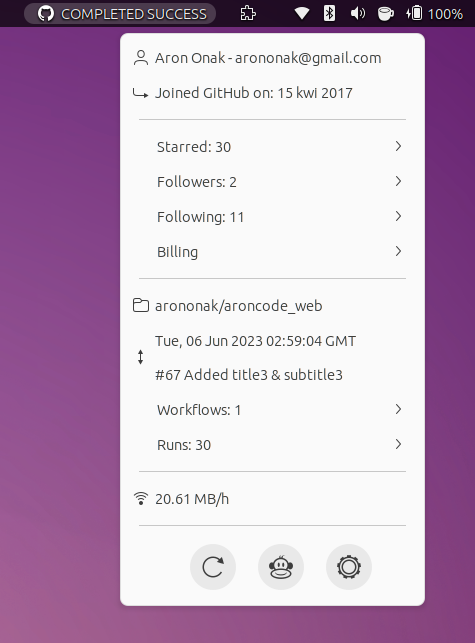
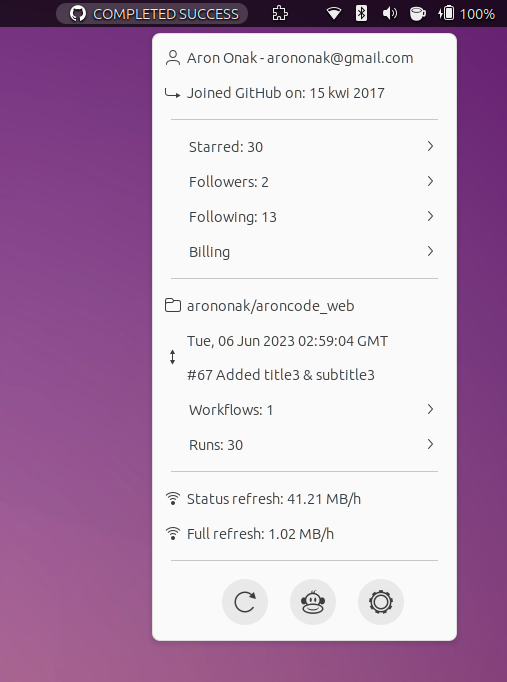
Separated data consumption to two groups

diff --git a/github-actions@arononak.github.io/extension.js b/github-actions@arononak.github.io/extension.js
@@ -41,7 +41,7 @@ function showFinishNotification(ownerAndRepo, success) {
     source.showNotification(notification);
 }
 
-/// ~5 minutes
+/// 1-60 minutes
 async function coldRefresh(settings, indicator) {
     try {
         const owner = settings.get_string('owner');
@@ -50,15 +50,55 @@ async function coldRefresh(settings, indicator) {
 
         const user = await dataRepository.fetchUser();
         if (user == null) return;
-
         const login = user['login'];
-        const starredList = await dataRepository.fetchUserStarred(login);
-        indicator.setUserStarred(starredList);
 
+        const starredList = await dataRepository.fetchUserStarred(login);
         const followers = await dataRepository.fetchUserFollowers();
-        indicator.setUserFollowers(followers);
         const following = await dataRepository.fetchUserFollowing();
+        const workflows = await dataRepository.fetchWorkflows(owner, repo);
+        const minutes = await dataRepository.fetchUserBillingActionsMinutes(login);
+        const packages = await dataRepository.fetchUserBillingPackages(login);
+        const sharedStorage = await dataRepository.fetchUserBillingSharedStorage(login);
+
+        const sizeInBytes = user['_size_'] + starredList['_size_'] + followers['_size_'] + following['_size_'] + workflows['_size_'] + minutes['_size_'] + packages['_size_'] + sharedStorage['_size_'];
+        utils.prefsUpdateColdPackageSize(settings, sizeInBytes);
+
+        let userEmail;
+        let userName;
+        let createdAt;
+        let userUrl;
+        if (user != null) {
+            userEmail = user['email'];
+            userName = user['name'];
+            createdAt = new Date(user['created_at']);
+            userUrl = user['html_url'];
+        }
+
+        let parsedMinutes;
+        if (minutes != null) {
+            parsedMinutes = 'Usage minutes: ' + minutes['total_minutes_used'] + ' of ' + minutes['included_minutes'] + ', ' + minutes['total_paid_minutes_used'] + ' paid';
+        }
+
+        let parsedPackages;
+        if (packages != null) {
+            parsedPackages = 'Data transfer out: ' + packages['total_gigabytes_bandwidth_used'] + ' GB of ' + packages['included_gigabytes_bandwidth'] + ' GB, ' + packages['total_paid_gigabytes_bandwidth_used'] + ' GB paid';
+        }
+
+        let parsedSharedStorage;
+        if (sharedStorage != null) {
+            parsedSharedStorage = 'Storage for month: ' + sharedStorage['estimated_storage_for_month'] + ' GB, ' + sharedStorage['estimated_paid_storage_for_month'] + ' GB paid';
+        }
+
+        indicator.setUserStarred(starredList);
+        indicator.setUserFollowers(followers);
         indicator.setUserFollowing(following);
+        indicator.setWorkflows(workflows['workflows']);
+        indicator.userUrl = userUrl;
+        indicator.userItem.label.text = (userName == null || userEmail == null) ? 'Not logged' : userName + ' - ' + userEmail;
+        indicator.joinedItem.label.text = 'Joined GitHub on: ' + createdAt.toLocaleFormat('%d %b %Y');
+        indicator.minutesItem.label.text = parsedMinutes == null ? 'Not logged' : parsedMinutes;
+        indicator.packagesItem.label.text = parsedPackages == null ? 'Not logged' : parsedPackages;
+        indicator.sharedStorageItem.label.text = parsedSharedStorage == null ? 'Not logged' : parsedSharedStorage;
     } catch (error) {
         logError(error);
     }
@@ -69,98 +109,46 @@ async function hotRefresh(settings, indicator) {
     try {
         const owner = settings.get_string('owner');
         const repo = settings.get_string('repo');
+        if (utils.isEmpty(owner) || utils.isEmpty(repo)) return;
 
-        if (!utils.isEmpty(owner) && !utils.isEmpty(repo)) {
-            const user = await dataRepository.fetchUser();
-            let userLogin;
-            let userEmail;
-            let userName;
-            let createdAt;
-            let userUrl;
-            if (user != null) {
-                userLogin = user['login']
-                userEmail = user['email'];
-                userName = user['name'];
-                createdAt = new Date(user['created_at']);
-                userUrl = user['html_url'];
-            }
-
-            const minutes = await dataRepository.fetchUserBillingActionsMinutes(userLogin);
-            let parsedMinutes;
-            if (minutes != null) {
-                parsedMinutes = 'Usage minutes: ' + minutes['total_minutes_used'] + ' of ' + minutes['included_minutes'] + ', ' + minutes['total_paid_minutes_used'] + ' paid';
-            }
-
-            const packages = await dataRepository.fetchUserBillingPackages(userLogin);
-            let parsedPackages;
-            if (packages != null) {
-                parsedPackages = 'Data transfer out: ' + packages['total_gigabytes_bandwidth_used'] + ' GB of ' + packages['included_gigabytes_bandwidth'] + ' GB, ' + packages['total_paid_gigabytes_bandwidth_used'] + ' GB paid';
-            }
-
-            const sharedStorage = await dataRepository.fetchUserBillingSharedStorage(userLogin);
-            let parsedSharedStorage;
-            if (sharedStorage != null) {
-                parsedSharedStorage = 'Storage for month: ' + sharedStorage['estimated_storage_for_month'] + ' GB, ' + sharedStorage['estimated_paid_storage_for_month'] + ' GB paid';
-            }
-
-            let latestRun;
-            let size;
-            const runs = await dataRepository.fetchWorkflowRuns(owner, repo);
-            if (runs == null) {
-                indicator.setNotLoggedState();
-                return;
-            }
-
-            latestRun = runs['workflow_runs'][0];
-            size = runs['_size_'];
-
-            const workflows = await dataRepository.fetchWorkflows(owner, repo);
-
-            indicator.setRuns(runs['workflow_runs']);
-            indicator.setWorkflows(workflows['workflows']);
-
-            const status = latestRun["status"].toString().toUpperCase();
-            const conclusion = latestRun["conclusion"] == null ? '' : latestRun["conclusion"].toString().toUpperCase();
-            const displayTitle = latestRun["display_title"].toString();
-            const runNumber = latestRun["run_number"].toString();
-            const updatedAt = latestRun["updated_at"].toString();
-            const ownerAndRepo = latestRun["repository"]["full_name"].toString();
-
-            const workflowUrl = latestRun["html_url"].toString();
-            const repositoryUrl = latestRun["repository"]["html_url"].toString();
-
-            const date = new Date(updatedAt);
-
-            const sizeInBytes = runs['_size_'];
-            utils.prefsUpdatePackageSize(settings, sizeInBytes);
-
-            const previousState = indicator.label.text;
-            const currentState = status + ' ' + conclusion;
-
-            /// Notification
-            if (!utils.isEmpty(previousState) && previousState !== loadingText && previousState !== currentState) {
-                if (currentState === 'COMPLETED SUCCESS') {
-                    showFinishNotification(ownerAndRepo, true);
-                } else if (currentState === 'COMPLETED FAILURE') {
-                    showFinishNotification(ownerAndRepo, false);
-                }
-            }
-
-            indicator.label.text = currentState;
-
-            indicator.workflowUrl = workflowUrl;
-            indicator.repositoryUrl = repositoryUrl;
-            indicator.userUrl = userUrl;
-
-            indicator.userItem.label.text = (userName == null || userEmail == null) ? 'Not logged' : userName + ' - ' + userEmail;
-            indicator.joinedItem.label.text = 'Joined GitHub on: ' + createdAt.toLocaleFormat('%d %b %Y');
-            indicator.minutesItem.label.text = parsedMinutes == null ? 'Not logged' : parsedMinutes;
-            indicator.packagesItem.label.text = parsedPackages == null ? 'Not logged' : parsedPackages;
-            indicator.sharedStorageItem.label.text = parsedSharedStorage == null ? 'Not logged' : parsedSharedStorage;
-            indicator.ownerAndRepoItem.label.text = ownerAndRepo;
-            indicator.infoItem.label.text = date.toUTCString() + "\n\n#" + runNumber + " " + displayTitle;
-            indicator.packageSizeItem.label.text = utils.prefsDataConsumptionPerHour(settings);
+        const runs = await dataRepository.fetchWorkflowRuns(owner, repo);
+        if (runs == null) {
+            indicator.setNotLoggedState();
+            return;
         }
+
+        utils.prefsUpdatePackageSize(settings, runs['_size_']);
+
+        const latestRun = runs['workflow_runs'][0];
+        const status = latestRun["status"].toString().toUpperCase();
+        const conclusion = latestRun["conclusion"] == null ? '' : latestRun["conclusion"].toString().toUpperCase();
+        const displayTitle = latestRun["display_title"].toString();
+        const runNumber = latestRun["run_number"].toString();
+        const updatedAt = latestRun["updated_at"].toString();
+        const ownerAndRepo = latestRun["repository"]["full_name"].toString();
+        const workflowUrl = latestRun["html_url"].toString();
+        const repositoryUrl = latestRun["repository"]["html_url"].toString();
+        const date = new Date(updatedAt);
+        const previousState = indicator.label.text;
+        const currentState = status + ' ' + conclusion;
+
+        /// Notification
+        if (!utils.isEmpty(previousState) && previousState !== loadingText && previousState !== currentState) {
+            if (currentState === 'COMPLETED SUCCESS') {
+                showFinishNotification(ownerAndRepo, true);
+            } else if (currentState === 'COMPLETED FAILURE') {
+                showFinishNotification(ownerAndRepo, false);
+            }
+        }
+
+        indicator.label.text = currentState;
+        indicator.workflowUrl = workflowUrl;
+        indicator.repositoryUrl = repositoryUrl;
+        indicator.ownerAndRepoItem.label.text = ownerAndRepo;
+        indicator.infoItem.label.text = date.toUTCString() + "\n\n#" + runNumber + " " + displayTitle;
+        indicator.packageSizeItem.label.text = 'Status refresh: ' + utils.prefsDataConsumptionPerHour(settings);
+        indicator.fullPackageSizeItem.label.text = 'Full refresh: ' + utils.prefsFullDataConsumptionPerHour(settings);
+        indicator.setRuns(runs['workflow_runs']);
     } catch (error) {
         logError(error);
     }
@@ -275,8 +263,9 @@ const Indicator = GObject.registerClass(
 
             /// Package Size
             this.packageSizeItem = new PopupMenu.PopupImageMenuItem(loadingText, 'network-wireless-symbolic');
-            this.packageSizeItem.connect('activate', () => this.refreshCallback());
             this.menu.addMenuItem(this.packageSizeItem);
+            this.fullPackageSizeItem = new PopupMenu.PopupImageMenuItem(loadingText, 'network-wireless-symbolic');
+            this.menu.addMenuItem(this.fullPackageSizeItem);
             this.menu.addMenuItem(new PopupMenu.PopupSeparatorMenuItem());
 
             this.bottomButtonBox = new St.BoxLayout({
@@ -388,6 +377,7 @@ const Indicator = GObject.registerClass(
             this.ownerAndRepoItem.label.text = '...';
             this.infoItem.label.text = '...';
             this.packageSizeItem.label.text = '...';
+            this.fullPackageSizeItem.label.text = '...';
         }
 
         _init() {

diff --git a/github-actions@arononak.github.io/prefs.js b/github-actions@arononak.github.io/prefs.js
@@ -10,7 +10,7 @@ const version = Me.imports.version; // version.js
 function init() { }
 
 function fillPreferencesWindow(window) {
-    window.set_default_size(500, 650);
+    window.set_default_size(500, 700);
     const settings = ExtensionUtils.getSettings('org.gnome.shell.extensions.github-actions');
 
     const ownerEntry = new Gtk.Entry({ buffer: new Gtk.EntryBuffer({ text: settings.get_string('owner') }), hexpand: true, halign: Gtk.Align.CENTER, valign: Gtk.Align.CENTER });
@@ -54,6 +54,9 @@ function fillPreferencesWindow(window) {
     refreshStatusRow.activatable_widget = refreshStatusSpinButton;
     settings.bind('refresh-time', refreshStatusSpinButton, 'value', Gio.SettingsBindFlags.DEFAULT);
 
+    const dataRow = new Adw.ActionRow({ title: 'Data package size ' });
+    dataRow.add_suffix(new Gtk.Label({ label: utils.prefsPackageSize(settings), halign: Gtk.Align.START, valign: Gtk.Align.CENTER }));
+
     const fullRefreshSpinButton = new Gtk.SpinButton({ climb_rate: 1, digits: 0 });
     fullRefreshSpinButton.wrap = true;
     fullRefreshSpinButton.width_chars = 2;
@@ -73,8 +76,8 @@ function fillPreferencesWindow(window) {
     fullRefreshRow.activatable_widget = fullRefreshSpinButton;
     settings.bind('full-refresh-time', fullRefreshSpinButton, 'value', Gio.SettingsBindFlags.DEFAULT);
 
-    const dataRow = new Adw.ActionRow({ title: 'Data package size ' });
-    dataRow.add_suffix(new Gtk.Label({ label: utils.prefsPackageSize(settings), halign: Gtk.Align.START, valign: Gtk.Align.CENTER }));
+    const fullDataRow = new Adw.ActionRow({ title: 'Full data package size ' });
+    fullDataRow.add_suffix(new Gtk.Label({ label: utils.prefsColdPackageSize(settings), halign: Gtk.Align.START, valign: Gtk.Align.CENTER }));
 
     const versionRow = new Adw.ActionRow();
     versionRow.add_prefix(new Gtk.Label({ label: 'Version: ', halign: Gtk.Align.START, valign: Gtk.Align.CENTER }));
@@ -94,6 +97,7 @@ function fillPreferencesWindow(window) {
     const refreshStatusGroup = new Adw.PreferencesGroup({ title: 'Refresh status' });
     refreshStatusGroup.add(dataRow);
     refreshStatusGroup.add(refreshStatusRow);
+    refreshStatusGroup.add(fullDataRow);
     refreshStatusGroup.add(fullRefreshRow);
 
     const otherGroup = new Adw.PreferencesGroup({ title: 'Other' });

diff --git a/github-actions@arononak.github.io/utils.js b/github-actions@arononak.github.io/utils.js
@@ -13,6 +13,14 @@ var prefsUpdatePackageSize = function(settings, sizeInBytes) {
     settings.set_int('package-size-in-bytes', sizeInBytes);
 }
 
+var prefsColdPackageSize = function(settings) {
+    return bytesToString(settings.get_int('cold-package-size-in-bytes'));
+}
+
+var prefsUpdateColdPackageSize = function(settings, sizeInBytes) {
+    settings.set_int('cold-package-size-in-bytes', sizeInBytes);
+}
+
 /// Refresh time
 var prefsRefreshTime = function(settings) {
     return settings.get_int('refresh-time');
@@ -22,12 +30,29 @@ var prefsUpdateRefreshTime = function(settings, refreshTime) {
     settings.set_int('refresh-time', refreshTime);
 }
 
+var prefsRefreshFullUpdateTime = function(settings) {
+    return settings.get_int('full-refresh-time');
+}
+
+var prefsUpdateFullRefreshTime = function(settings, refreshTime) {
+    settings.set_int('full-refresh-time', refreshTime);
+}
+
 /// Data consumption
 var prefsDataConsumptionPerHour = function(settings) {
     const packageSizeInBytes = settings.get_int('package-size-in-bytes');
     const refreshTime = prefsRefreshTime(settings);
 
     const _dataConsumptionPerHour = ((packageSizeInBytes / refreshTime) * 60 * 60);
+
+    return bytesToString(_dataConsumptionPerHour) + '/h';
+}
+
+var prefsFullDataConsumptionPerHour = function(settings) {
+    const packageSizeInBytes = settings.get_int('cold-package-size-in-bytes');
+    const refreshTime = prefsRefreshFullUpdateTime(settings);
+
+    const _dataConsumptionPerHour = ((packageSizeInBytes / refreshTime) * 60);
 
     return bytesToString(_dataConsumptionPerHour) + '/h';
 }
